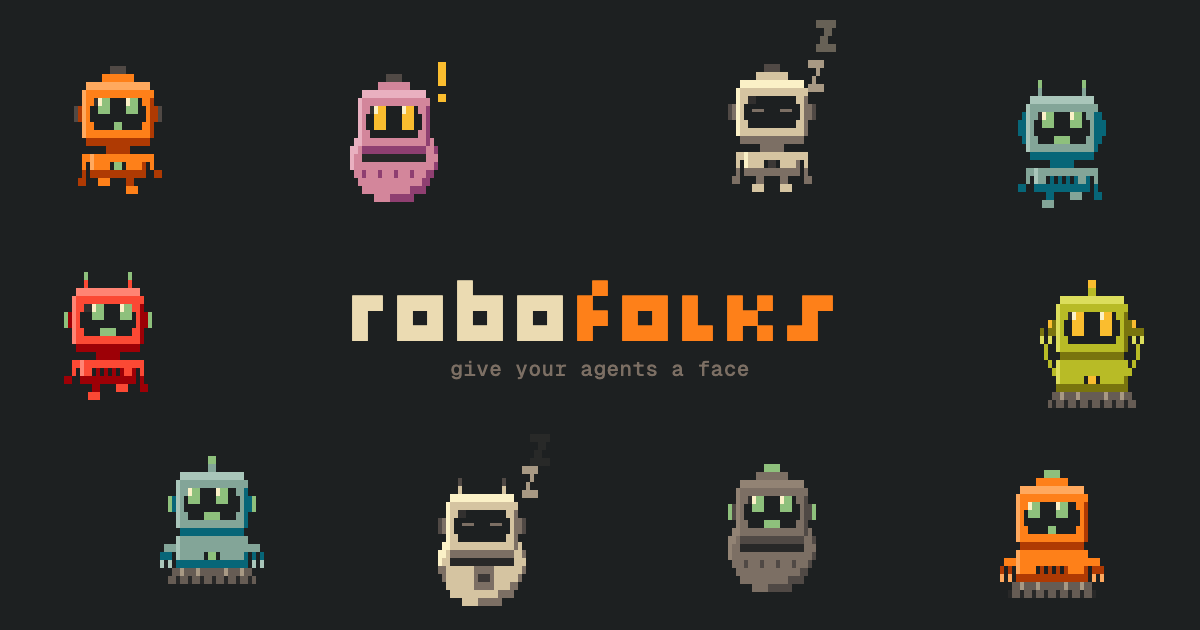
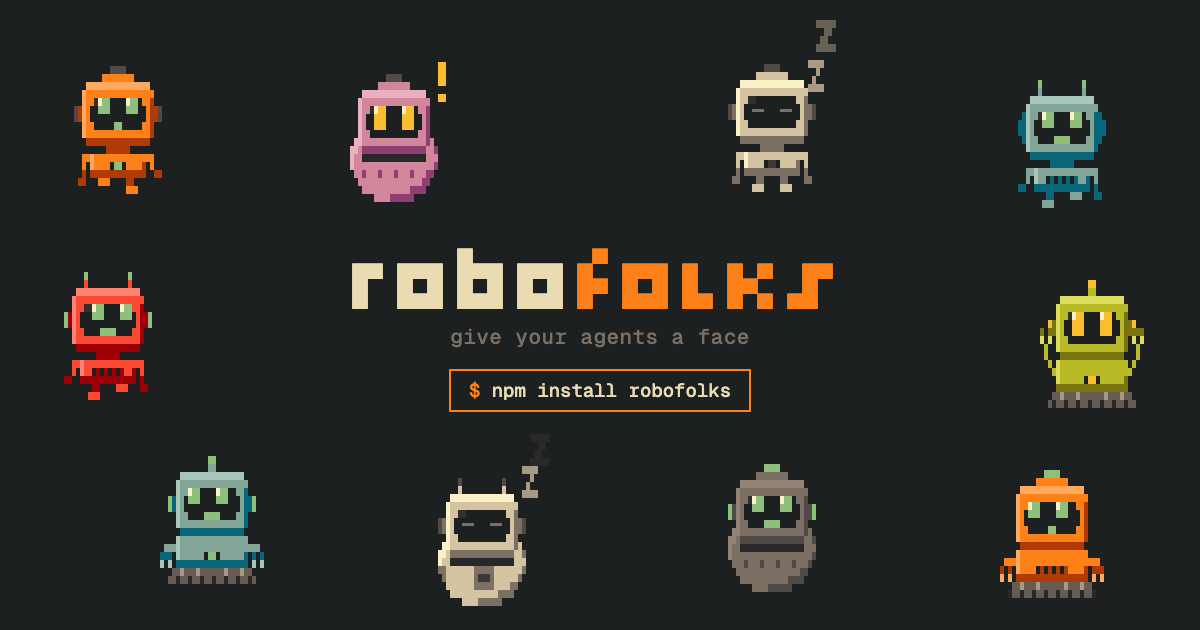
Demo: shorter descriptions, and an install command on the preview card
The meta description (180 chars) and og:description (159) ran past what
search results and social previews show; they're 145 and 117 now. The
card gains "$ npm install robofolks" as its call to action.

Changed region(s): [[0.2775, 0.3921, 0.7092, 0.5429], [0.37, 0.573, 0.6475, 0.6635]]

diff --git a/docs/index.html b/docs/index.html
@@ -4,7 +4,7 @@
 <meta charset="utf-8" />
 <meta name="viewport" content="width=device-width, initial-scale=1" />
 <title>robofolks — animated pixel-robot avatars for AI agents</title>
-<meta name="description" content="Open-source pixel-robot avatars that show what your AI agents are doing: working, waiting on you, or idle. Animated SVGs with no JavaScript, React, a web component, PNGs and a CLI." />
+<meta name="description" content="Pixel-robot avatars that show what your AI agents are doing: working, waiting on you, or idle. Animated SVGs with no JavaScript, React and a CLI." />
 <link rel="canonical" href="https://kevingoenadibrata.github.io/robofolks/" />
 <meta name="author" content="Kevin Goenadibrata" />
 <meta name="theme-color" content="#1d2021" />
@@ -13,11 +13,11 @@
 <meta property="og:site_name" content="robofolks" />
 <meta property="og:url" content="https://kevingoenadibrata.github.io/robofolks/" />
 <meta property="og:title" content="robofolks — give your agents a face" />
-<meta property="og:description" content="567 animated pixel robots that show what your AI agents are doing: working, waiting on you, or idle. No dependencies, and no JavaScript needed to animate them." />
+<meta property="og:description" content="567 animated pixel robots that show what your AI agents are doing: working, waiting on you, or idle. No dependencies." />
 <meta property="og:image" content="https://kevingoenadibrata.github.io/robofolks/og-card.png" />
 <meta property="og:image:width" content="1200" />
 <meta property="og:image:height" content="630" />
-<meta property="og:image:alt" content="The robofolks wordmark and the tagline 'give your agents a face', surrounded by ten pixel robots: some working, one with an exclamation mark overhead, two dozing with z's." />
+<meta property="og:image:alt" content="The robofolks wordmark, the tagline 'give your agents a face' and the command 'npm install robofolks', surrounded by ten pixel robots: some working, one with an exclamation mark overhead, two dozing with z's." />
 <meta name="twitter:card" content="summary_large_image" />
 <meta name="twitter:title" content="robofolks — give your agents a face" />
 <meta name="twitter:description" content="567 animated pixel robots that show what your AI agents are doing. No dependencies, no JavaScript needed to animate them." />
